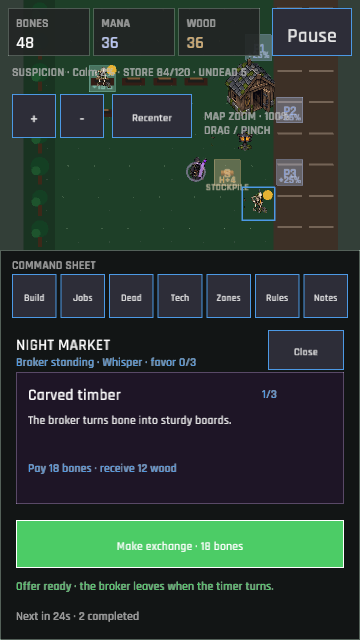
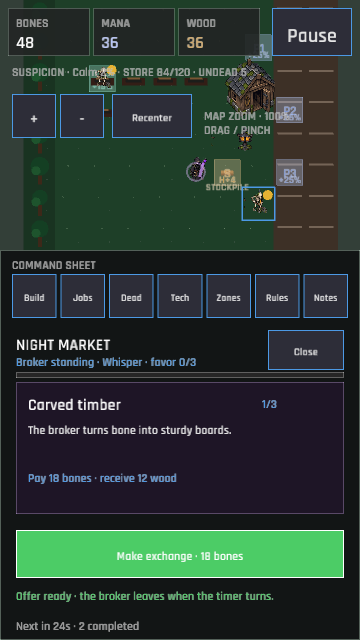
A thin line measures how much the broker remembers (favor meter)
The night market now renders standing progress on desktop and compact cards, with a full meter at Trusted and segment progress between thresholds. The state helper and tests keep the meter stable across standing changes.

diff --git a/src/ui/market.rs b/src/ui/market.rs
@@ -48,6 +48,15 @@ pub(super) fn draw_market_panel(
         0.0,
         dark::ACCENT,
     );
+    progress_bar(
+        rect.x + 486.0,
+        rect.y + 82.0,
+        166.0,
+        7.0,
+        ctx.session.progress.market.standing_progress(),
+        1.0,
+        dark::ACCENT,
+    );
     if virtual_button(
         Rect::new(rect.right() - 96.0, rect.y + 14.0, 72.0, 44.0),
         "Close",
@@ -205,6 +214,15 @@ pub(super) fn draw_compact_market_panel(
         0.0,
         dark::ACCENT,
     );
+    progress_bar(
+        sheet.x + 16.0,
+        sheet.y + 122.0,
+        sheet.w - 32.0,
+        6.0,
+        ctx.session.progress.market.standing_progress(),
+        1.0,
+        dark::ACCENT,
+    );
     if compact_virtual_button(
         Rect::new(sheet.right() - 92.0, sheet.y + 80.0, 76.0, 40.0),
         "Close",
@@ -224,7 +242,7 @@ pub(super) fn draw_compact_market_panel(
     } else {
         "Exchange unavailable".to_owned()
     };
-    let card = Rect::new(sheet.x + 16.0, sheet.y + 122.0, sheet.w - 32.0, 132.0);
+    let card = Rect::new(sheet.x + 16.0, sheet.y + 132.0, sheet.w - 32.0, 132.0);
     draw_surface(
         card,
         &SurfaceStyle::new(Color::new(0.12, 0.085, 0.15, 1.0))
@@ -271,7 +289,7 @@ pub(super) fn draw_compact_market_panel(
         dark::ACCENT,
     );
     if compact_virtual_button(
-        Rect::new(sheet.x + 16.0, sheet.y + 270.0, sheet.w - 32.0, 48.0),
+        Rect::new(sheet.x + 16.0, sheet.y + 280.0, sheet.w - 32.0, 48.0),
         &trade_label,
         trade_ready,
         ButtonTone::Positive,
@@ -283,7 +301,7 @@ pub(super) fn draw_compact_market_panel(
     draw_text_block(
         &trade_status_label(ctx, trade_ready),
         sheet.x + 16.0,
-        sheet.y + 328.0,
+        sheet.y + 338.0,
         sheet.w - 32.0,
         22.0,
         11.0,
@@ -301,7 +319,7 @@ pub(super) fn draw_compact_market_panel(
             ctx.session.progress.market.completed_trades
         ),
         sheet.x + 16.0,
-        sheet.y + 358.0,
+        sheet.y + 368.0,
         sheet.w - 32.0,
         18.0,
         12.0,

diff --git a/src/state/market.rs b/src/state/market.rs
@@ -61,6 +61,15 @@ impl MarketState {
             .copied()
             .find(|threshold| *threshold > self.favor)
     }
+
+    pub fn standing_progress(&self) -> f32 {
+        let tier = self.standing_tier();
+        let Some(target) = self.next_standing_target() else {
+            return 1.0;
+        };
+        let start = BROKER_STANDING_THRESHOLDS[tier];
+        (self.favor.saturating_sub(start) as f32 / (target - start) as f32).clamp(0.0, 1.0)
+    }
 }
 
 fn default_refresh_seconds() -> f32 {

diff --git a/src/state/market/tests.rs b/src/state/market/tests.rs
@@ -13,6 +13,10 @@ fn broker_standing_advances_at_persistent_favor_thresholds() {
     market.favor = 8;
     assert_eq!(market.standing_label(), "Trusted");
     assert_eq!(market.next_standing_target(), None);
+    assert_eq!(market.standing_progress(), 1.0);
+
+    market.favor = 2;
+    assert!((market.standing_progress() - (2.0 / 3.0)).abs() < 0.001);
 }
 
 #[test]
